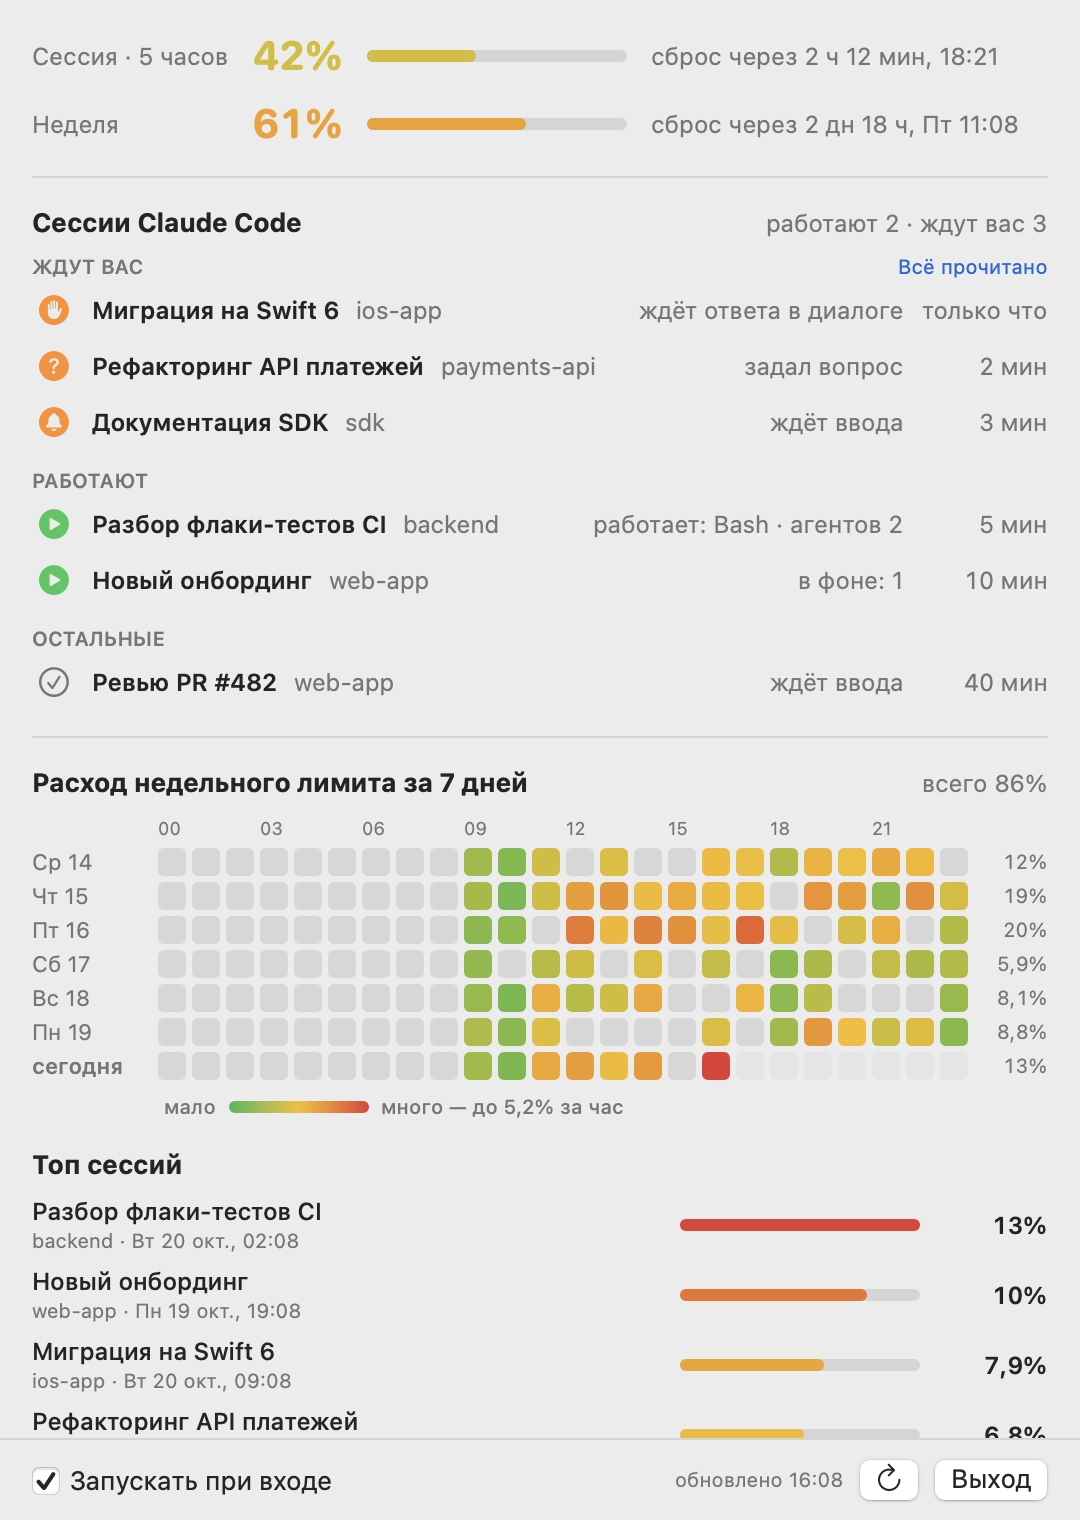
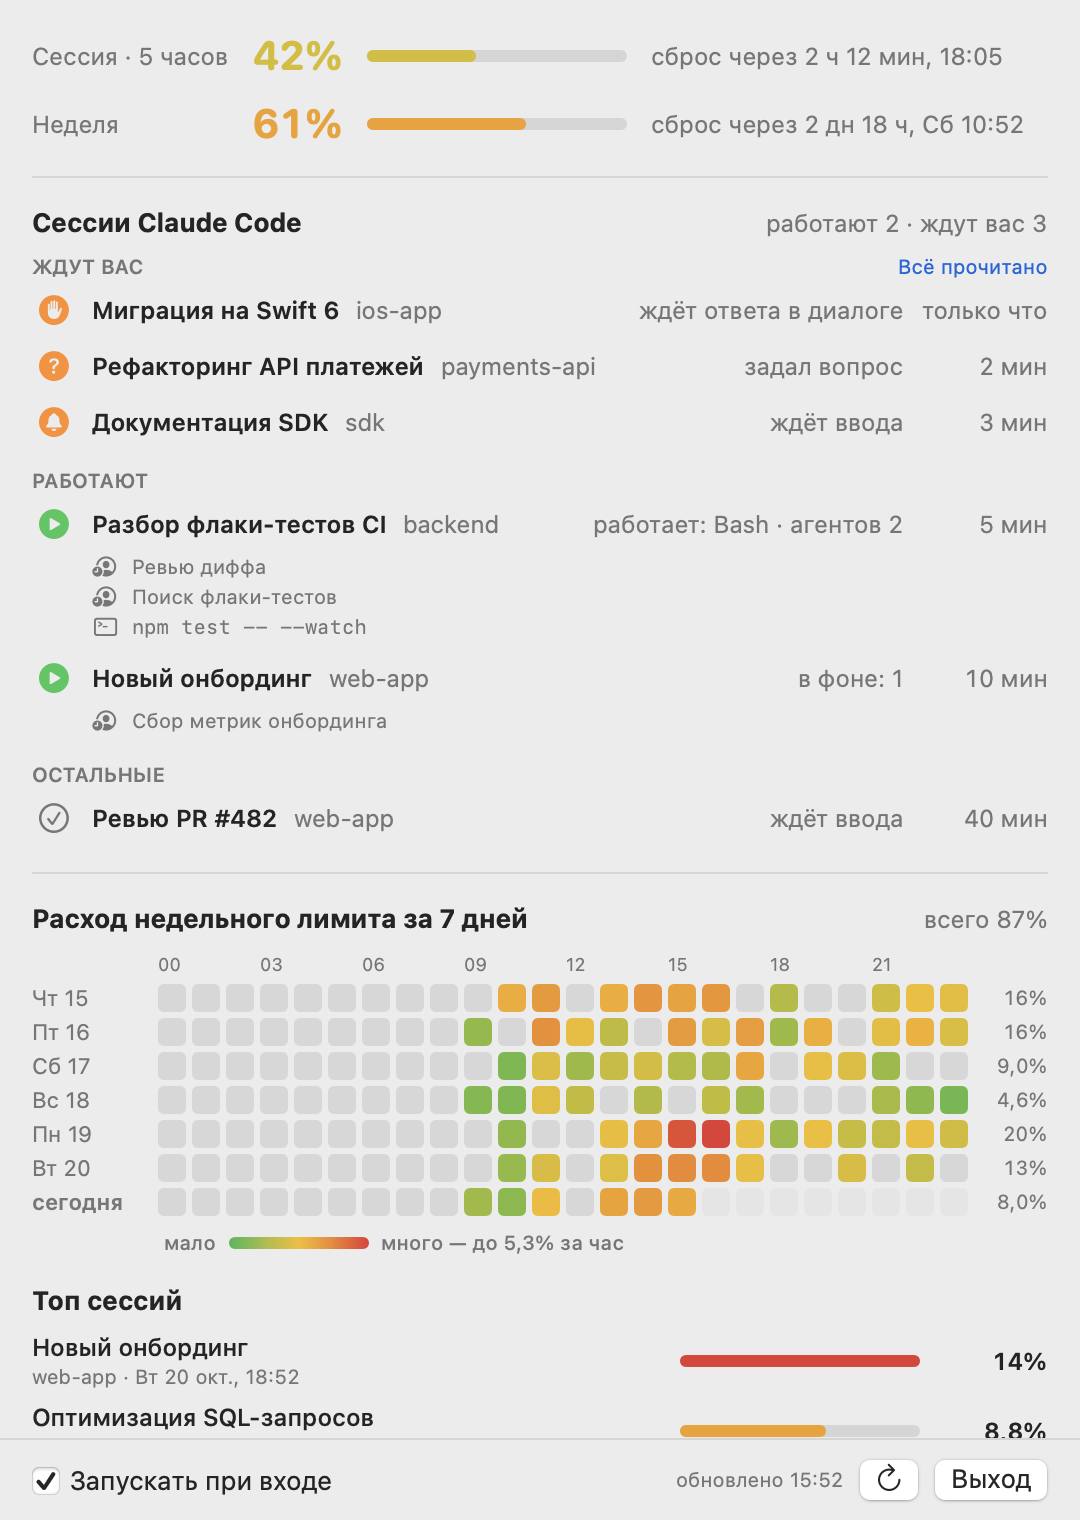
List subagents and running commands under their session

diff --git a/Sources/ClaudeLimits/LiveSessions.swift b/Sources/ClaudeLimits/LiveSessions.swift
@@ -40,12 +40,14 @@ struct LiveSession: Identifiable, Equatable {
     var entrypoint: String?
     var state: State
     var since: Date              // when the current state began
-    var agents: Int              // running subagents
-    var commands: Int            // running shell commands, background ones included
+    var agentNames: [String]     // running subagents: their task descriptions
+    var commandLines: [String]   // running shell commands, background ones included
     var host: Host
     var hostPID: Int32?
     var tty: String?
 
+    var agents: Int { agentNames.count }
+    var commands: Int { commandLines.count }
     var project: String { URL(fileURLWithPath: cwd).lastPathComponent }
     var isWorking: Bool {
         if case .working = state { return true }
@@ -88,8 +90,9 @@ final class LiveSessionScanner {
                 return t
             }
             let procStart = Proc.startTime(proc)
-            let agents = tail.map { Self.runningAgents(transcript: $0.url, since: procStart) } ?? 0
-            let commands = Proc.children(pid).filter { Proc.isCommand($0) }.count
+            let agentNames = tail.map { Self.runningAgents(transcript: $0.url, since: procStart) } ?? []
+            let commandLines = Proc.children(pid).filter { Proc.isCommand($0) }.map { Proc.commandLine($0) }
+            let agents = agentNames.count, commands = commandLines.count
 
             let status = o["status"] as? String
             let statusAt = (o["statusUpdatedAt"] as? NSNumber).map { Date(timeIntervalSince1970: $0.doubleValue / 1000) }
@@ -102,7 +105,7 @@ final class LiveSessionScanner {
             let name = (o["nameSource"] as? String) == "derived" ? nil : o["name"] as? String
             let title = name ?? tail?.title ?? titles[sid] ?? URL(fileURLWithPath: cwd).lastPathComponent
             out.append(LiveSession(id: sid, pid: pid, title: title, cwd: cwd, entrypoint: entrypoint,
-                                   state: state, since: since ?? startedAt ?? Date(), agents: agents, commands: commands,
+                                   state: state, since: since ?? startedAt ?? Date(), agentNames: agentNames, commandLines: commandLines,
                                    host: host, hostPID: hostPID, tty: Proc.tty(proc)))
         }
         tails = tails.filter { alive.contains($0.key) }
@@ -146,19 +149,23 @@ final class LiveSessionScanner {
 
     /// Subagents of this session that have not finished: `<project>/<session>/subagents/agent-*.meta.json`
     /// without `"finished": true`, whose transcript was written by this process recently.
-    private static func runningAgents(transcript: URL, since start: Date?) -> Int {
+    /// Returns their descriptions, oldest first.
+    private static func runningAgents(transcript: URL, since start: Date?) -> [String] {
         let dir = transcript.deletingPathExtension().appendingPathComponent("subagents")
-        guard let files = try? FileManager.default.contentsOfDirectory(at: dir, includingPropertiesForKeys: [.contentModificationDateKey]) else { return 0 }
+        guard let files = try? FileManager.default.contentsOfDirectory(at: dir, includingPropertiesForKeys: [.contentModificationDateKey]) else { return [] }
         let fresh = Date().addingTimeInterval(-10 * 60)
-        var n = 0
+        var found: [(Date, String)] = []
         for f in files where f.lastPathComponent.hasSuffix(".meta.json") {
             let log = dir.appendingPathComponent(f.lastPathComponent.replacingOccurrences(of: ".meta.json", with: ".jsonl"))
             guard let m = try? log.resourceValues(forKeys: [.contentModificationDateKey]).contentModificationDate,
                   m > fresh, m > (start ?? .distantPast) else { continue }
             guard let d = try? Data(contentsOf: f), let o = try? JSONSerialization.jsonObject(with: d) as? [String: Any] else { continue }
-            if (o["finished"] as? Bool) != true { n += 1 }
+            if (o["finished"] as? Bool) != true {
+                let name = (o["description"] as? String).flatMap { $0.isEmpty ? nil : $0 } ?? o["agentType"] as? String ?? "агент"
+                found.append((m, name))
+            }
         }
-        return n
+        return found.sorted { $0.0 < $1.0 }.map(\.1)
     }
 
     // MARK: Files and processes
@@ -312,6 +319,73 @@ enum Proc {
         var buf = [Int32](repeating: 0, count: 256)
         let n = proc_listchildpids(pid, &buf, Int32(buf.count * MemoryLayout<Int32>.size))
         return n > 0 ? Array(buf.prefix(Int(n))) : []
+    }
+
+    /// What a Bash tool command runs, its first line only. The tool starts
+    /// `zsh -c "<snapshot setup> && eval '<command>' < /dev/null && pwd -P >| <file>"`; when the shell exec'd
+    /// the command, argv is the command itself.
+    static func commandLine(_ pid: Int32) -> String {
+        guard let args = args(pid), !args.isEmpty else { return "?" }
+        let name = args[0].isEmpty ? "" : URL(fileURLWithPath: args[0]).lastPathComponent
+        var text = ([name] + args.dropFirst()).joined(separator: " ")
+        let shell = name.trimmingCharacters(in: CharacterSet(charactersIn: "-"))
+        if ["sh", "bash", "zsh", "dash"].contains(shell),
+           let flag = args.dropFirst().firstIndex(where: { $0.hasPrefix("-") && !$0.hasPrefix("--") && $0.contains("c") }),
+           flag + 1 < args.count {
+            let script = args[flag + 1]
+            text = script
+            if script.contains("&& pwd -P >| "), let r = script.range(of: "&& eval ") { text = shellWord(script[r.upperBound...]) }
+        }
+        let line = text.split(whereSeparator: \.isNewline).first { !$0.allSatisfy(\.isWhitespace) } ?? ""
+        let flat = line.split(whereSeparator: \.isWhitespace).joined(separator: " ")
+        return flat.isEmpty ? "?" : flat
+    }
+
+    /// The first shell word of `s` with its quoting removed: `'a'"'"'b'` → `a'b`.
+    private static func shellWord(_ s: Substring) -> String {
+        var out = "", i = s.startIndex
+        var quote: Character?
+        while i < s.endIndex {
+            let c = s[i]
+            switch quote {
+            case "'":
+                if c == "'" { quote = nil } else { out.append(c) }
+            case "\"":
+                if c == "\"" { quote = nil }
+                else if c == "\\", s.index(after: i) < s.endIndex, "\"\\$`".contains(s[s.index(after: i)]) {
+                    i = s.index(after: i); out.append(s[i])
+                } else { out.append(c) }
+            default:
+                if c == " " || c == "\t" { return out }
+                if c == "'" || c == "\"" { quote = c }
+                else if c == "\\", s.index(after: i) < s.endIndex { i = s.index(after: i); out.append(s[i]) }
+                else { out.append(c) }
+            }
+            i = s.index(after: i)
+        }
+        return out
+    }
+
+    /// argv of a process (KERN_PROCARGS2: argc, exec path padded to 8 bytes, then the arguments).
+    static func args(_ pid: Int32) -> [String]? {
+        var mib: [Int32] = [CTL_KERN, KERN_PROCARGS2, pid]
+        var size = 0
+        guard sysctl(&mib, 3, nil, &size, nil, 0) == 0, size > 4 else { return nil }
+        var buf = [UInt8](repeating: 0, count: size)
+        guard sysctl(&mib, 3, &buf, &size, nil, 0) == 0, size > 4 else { return nil }
+        let argc = Int(buf.withUnsafeBytes { $0.load(as: Int32.self) })
+        var i = 4
+        while i < size, buf[i] != 0 { i += 1 }          // exec path
+        // Skipping every NUL would also eat an empty argv[0] and shift the environment into argv.
+        i = 4 + (i + 1 - 4 + 7) / 8 * 8
+        var out: [String] = []
+        while out.count < argc, i < size {
+            var j = i
+            while j < size, buf[j] != 0 { j += 1 }
+            out.append(String(decoding: buf[i..<j], as: UTF8.self))
+            i = j + 1
+        }
+        return out
     }
 
     /// Bash tool commands, background ones included, start detached in a session of their own;

diff --git a/Sources/ClaudeLimits/Snapshot.swift b/Sources/ClaudeLimits/Snapshot.swift
@@ -123,10 +123,10 @@ enum Snapshot {
         }
 
         func live(_ title: String, _ project: String, _ host: LiveSession.Host, _ state: LiveSession.State,
-                  ago: TimeInterval, agents: Int = 0, commands: Int = 0) -> LiveSession {
+                  ago: TimeInterval, agents: [String] = [], commands: [String] = []) -> LiveSession {
             LiveSession(id: UUID().uuidString, pid: 0, title: title, cwd: "/Users/demo/code/\(project)",
                         entrypoint: host == .vscode(bundleID: "com.microsoft.VSCode") ? "claude-vscode" : "cli",
-                        state: state, since: now.addingTimeInterval(-ago), agents: agents, commands: commands,
+                        state: state, since: now.addingTimeInterval(-ago), agentNames: agents, commandLines: commands,
                         host: host, hostPID: nil, tty: nil)
         }
         let vscode = LiveSession.Host.vscode(bundleID: "com.microsoft.VSCode")
@@ -134,8 +134,9 @@ enum Snapshot {
             live("Рефакторинг API платежей", "payments-api", vscode, .question(plan: false), ago: 120),
             live("Миграция на Swift 6", "ios-app", .terminal(bundleID: "com.googlecode.iterm2"),
                  .permission(detail: "dialog open", sure: true), ago: 50),
-            live("Разбор флаки-тестов CI", "backend", vscode, .working(tool: "Bash"), ago: 300, agents: 2, commands: 1),
-            live("Новый онбординг", "web-app", .desktop, .background, ago: 600, agents: 1),
+            live("Разбор флаки-тестов CI", "backend", vscode, .working(tool: "Bash"), ago: 300,
+                 agents: ["Ревью диффа", "Поиск флаки-тестов"], commands: ["npm test -- --watch"]),
+            live("Новый онбординг", "web-app", .desktop, .background, ago: 600, agents: ["Сбор метрик онбординга"]),
             live("Документация SDK", "sdk", vscode, .idle, ago: 180),
             live("Ревью PR #482", "web-app", vscode, .idle, ago: 2400),
         ]

diff --git a/Sources/ClaudeLimits/PopoverView.swift b/Sources/ClaudeLimits/PopoverView.swift
@@ -195,6 +195,7 @@ private struct LiveSessionsView: View {
                         .buttonStyle(.plain)
                         .focusEffectDisabled()
                         .help("Перейти к сессии — \(Self.hostName(s))")
+                    nested(s)
                 }
             }
         }
@@ -216,6 +217,31 @@ private struct LiveSessionsView: View {
         }
         .padding(.vertical, 4)
         .contentShape(Rectangle())
+    }
+
+    /// Subagents and background commands of a session, indented under its row.
+    @ViewBuilder
+    private func nested(_ s: LiveSession) -> some View {
+        if s.agents + s.commands > 0 {
+            VStack(alignment: .leading, spacing: 2) {
+                ForEach(Array(s.agentNames.enumerated()), id: \.offset) { _, name in
+                    nestedRow("person.crop.circle.badge.clock", name, font: .caption)
+                }
+                ForEach(Array(s.commandLines.enumerated()), id: \.offset) { _, line in
+                    nestedRow("terminal", line, font: .system(.caption, design: .monospaced))
+                }
+            }
+            .padding(.leading, 30).padding(.bottom, 4)
+        }
+    }
+
+    private func nestedRow(_ icon: String, _ text: String, font: Font) -> some View {
+        HStack(alignment: .firstTextBaseline, spacing: 6) {
+            Image(systemName: icon).font(.caption2).frame(width: 14)
+            Text(text).font(font).lineLimit(1).truncationMode(.tail)
+        }
+        .foregroundStyle(.secondary)
+        .help(text)
     }
 
     /// Orange while the session waits for you and hasn't been looked at; gray once read.

diff --git a/Sources/ClaudeLimits/main.swift b/Sources/ClaudeLimits/main.swift
@@ -41,6 +41,8 @@ MainActor.assumeIsolated {
             if case .vscode(let id) = s.host { window = " window \(Navigator.vscodeWindowID(claudePID: s.pid, appPID: s.hostPID, bundleID: id).map(String.init) ?? "?")" }
             print("\(s.id.prefix(8)) pid \(s.pid) \(s.entrypoint ?? "?") host \(s.host)\(window) tty \(s.tty ?? "-") — \(s.title)")
             print("    \(s.state) since \(Fmt.time.string(from: s.since)), agents \(s.agents), commands \(s.commands), cwd \(s.cwd)")
+            for a in s.agentNames { print("      agent: \(a)") }
+            for c in s.commandLines { print("      command: \(c)") }
         }
         fflush(stdout)
         if args.contains("--watch") { Thread.sleep(forTimeInterval: 3) }

diff --git a/README.md b/README.md
@@ -98,6 +98,8 @@ cd claude-limits-bar
 | оранжевый колокольчик | ждёт ввода | Claude ответил, а вы ещё не смотрели |
 | серая галочка | ждёт ввода / остановлена | вы уже видели этот ответ или прервали ход |
 
+Под сессией, у которой работают субагенты или команды, — вложенный список: задача каждого субагента и первая строка каждой команды.
+
 **Оранжевая отметка снимается** сама, когда вы посмотрели на сессию:
 
 - кликнули по ней в списке;
